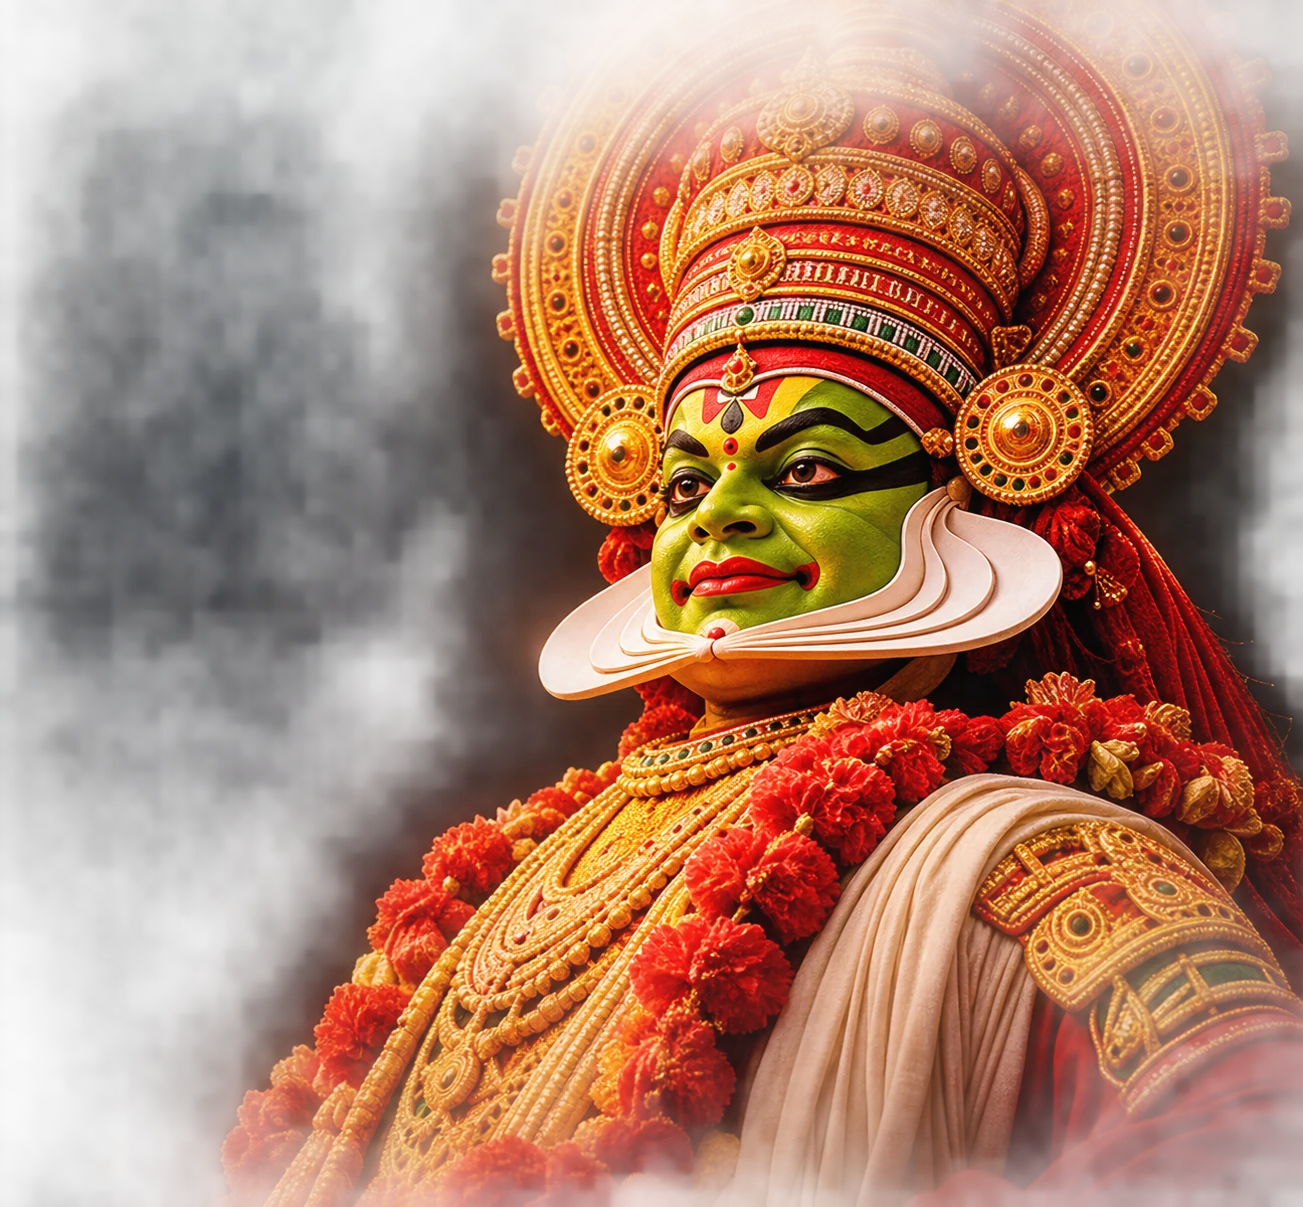
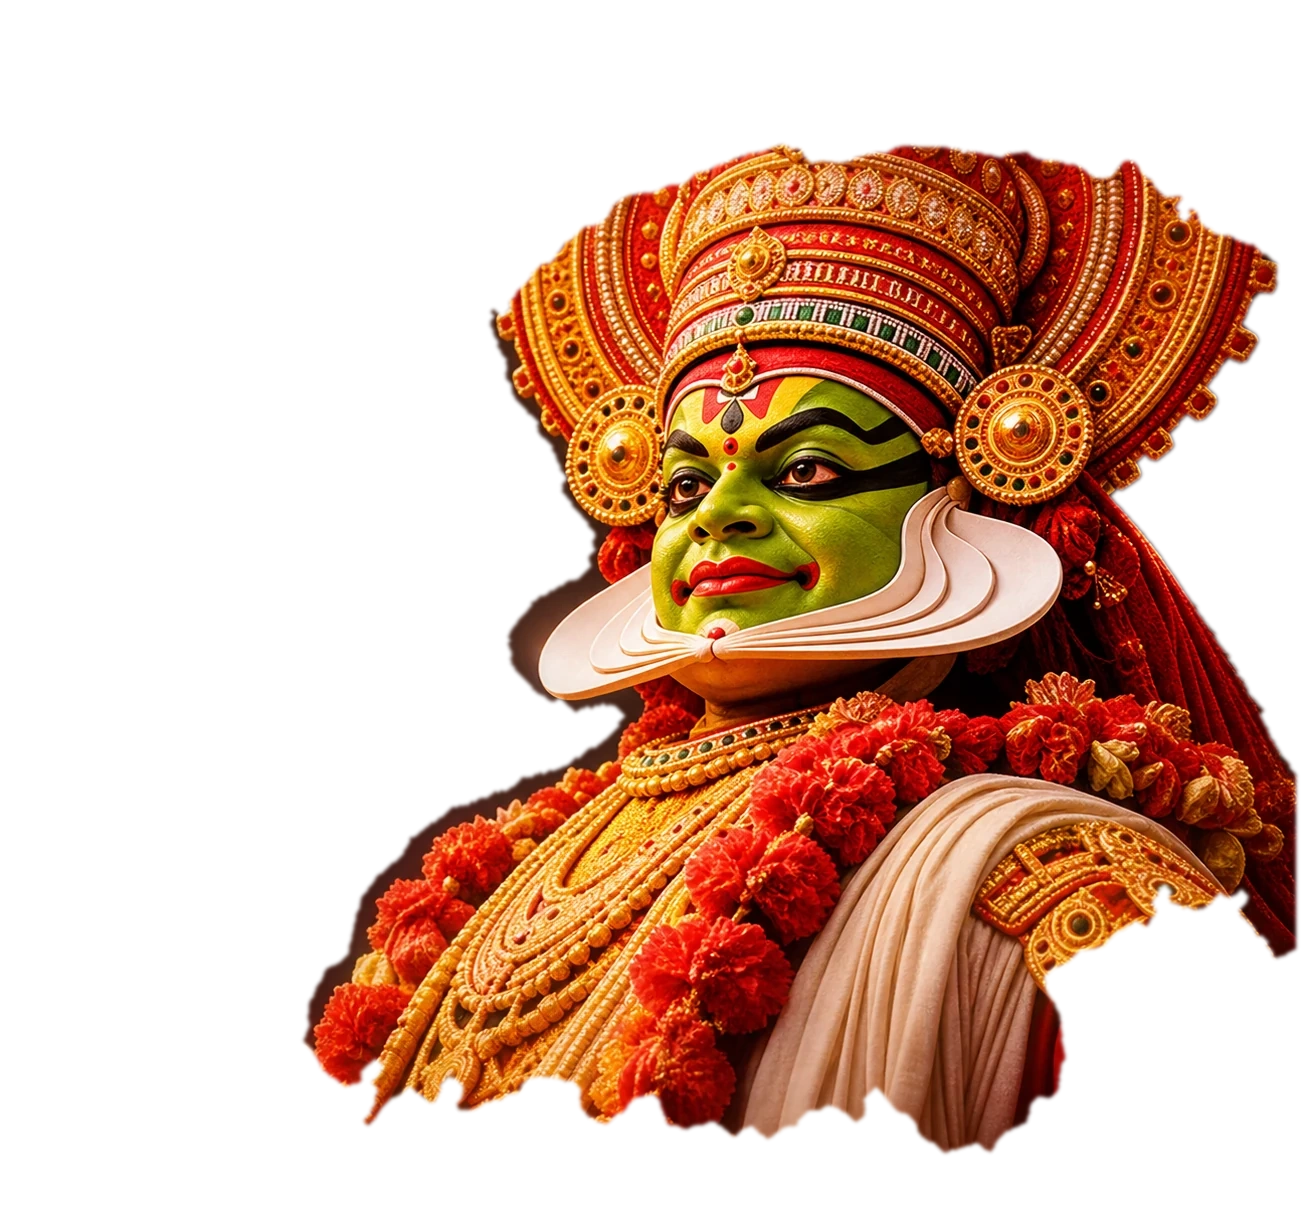
fix(hero): remove vintage square & crop line, eliminate clinky scroll and motion jitter

diff --git a/src/app/hero-kerala.css b/src/app/hero-kerala.css
@@ -7,7 +7,7 @@
 .hero.lt-hero.mh {
   --mx: 0;
   --my: 0;
-  --sy: 0;
+  --ksy: 0;
   --cgx: 60%;
   --cgy: 75%;
   position: relative;
@@ -44,7 +44,7 @@
     url(/mudra/depth-sky.webp) 50% 50%/cover no-repeat,
     radial-gradient(circle at 50% 38%, #fff6d0 0 .6%, #ffb347 1.4%, rgba(255, 120, 30, .55) 7%, transparent 28%),
     linear-gradient(180deg, #071a22 0, #0b2a33 28%, #6a3a1c 38%, #0a2a30 44%, #082127 70%, #051519 100%);
-  transform: translate3d(calc(var(--mx) * -12px), calc(var(--my) * -8px + var(--sy) * .12px), 0) scale(1.04);
+  transform: translate3d(calc(var(--mx) * -12px), calc(var(--my) * -8px + var(--ksy, 0) * .12px), 0) scale(1.04);
   animation: none !important;
 }
 
@@ -102,14 +102,14 @@
 /* 2 · Kathakali plate */
 .hero.lt-hero.mh .l-fig {
   position: absolute;
-  left: 63%;
+  left: 62%;
   top: -8%;
   width: 44%;
   z-index: 4;
   height: auto;
-  filter: drop-shadow(-18px 20px 32px rgba(0, 0, 0, .52)) saturate(1.12);
-  transform: translate3d(calc(var(--mx) * -38px), calc(var(--my) * -22px + var(--sy) * -.12px), 0) rotateY(calc(var(--mx) * -4.5deg)) rotateX(calc(var(--my) * 3deg));
-  transition: transform 0.08s ease-out;
+  filter: drop-shadow(0 14px 28px rgba(0, 0, 0, .38)) saturate(1.1);
+  transform: translate3d(calc(var(--mx) * -34px), calc(var(--my) * -18px + var(--ksy, 0) * -.08px), 0) rotateY(calc(var(--mx) * -3.8deg)) rotateX(calc(var(--my) * 2.2deg));
+  transition: none !important;
   will-change: transform;
   pointer-events: none;
   animation: none !important;
@@ -135,7 +135,7 @@
 }
 
 .hero.lt-hero.mh .fg-mid {
-  transform: translate3d(calc(var(--mx) * -26px), calc(var(--my) * -10px + var(--sy) * -.14px), 0) scale(1.02);
+  transform: translate3d(calc(var(--mx) * -26px), calc(var(--my) * -10px + var(--ksy, 0) * -.12px), 0) scale(1.02);
   -webkit-mask-image: linear-gradient(90deg, transparent 12%, #000 20%, #000 80%, transparent 88%), linear-gradient(180deg, transparent 40%, #000 52%);
   mask-image: linear-gradient(90deg, transparent 12%, #000 20%, #000 80%, transparent 88%), linear-gradient(180deg, transparent 40%, #000 52%);
   -webkit-mask-composite: source-in;
@@ -144,7 +144,7 @@
 
 .hero.lt-hero.mh .fg-left {
   z-index: 7;
-  transform: translate3d(calc(var(--mx) * -48px), calc(var(--my) * -18px + var(--sy) * -.2px), 0) scale(1.04);
+  transform: translate3d(calc(var(--mx) * -48px), calc(var(--my) * -18px + var(--ksy, 0) * -.16px), 0) scale(1.04);
   transform-origin: 0 100%;
   -webkit-mask-image: linear-gradient(90deg, #000 12%, transparent 20%);
   mask-image: linear-gradient(90deg, #000 12%, transparent 20%);
@@ -152,7 +152,7 @@
 
 .hero.lt-hero.mh .fg-right {
   z-index: 7;
-  transform: translate3d(calc(var(--mx) * -48px), calc(var(--my) * -18px + var(--sy) * -.2px), 0) scale(1.04);
+  transform: translate3d(calc(var(--mx) * -48px), calc(var(--my) * -18px + var(--ksy, 0) * -.16px), 0) scale(1.04);
   transform-origin: 100% 100%;
   -webkit-mask-image: linear-gradient(270deg, #000 12%, transparent 20%), linear-gradient(180deg, transparent 52%, #000 62%);
   mask-image: linear-gradient(270deg, #000 12%, transparent 20%), linear-gradient(180deg, transparent 52%, #000 62%);

diff --git a/src/components/Motion.tsx b/src/components/Motion.tsx
@@ -69,8 +69,8 @@ export function Motion() {
         t.style.setProperty('--gx', `${((px + 0.5) * 100).toFixed(1)}%`); t.style.setProperty('--gy', `${((py + 0.5) * 100).toFixed(1)}%`);
         current = t;
       }
-      // depth surfaces: the home light hero and every inner-page header
-      document.querySelectorAll<HTMLElement>('.hero:not(.mx-hero), .sheet-head.has-depth').forEach((h) => {
+      // depth surfaces: legacy light hero and inner-page headers (redesigned .mx-hero and .mh are independently controlled)
+      document.querySelectorAll<HTMLElement>('.hero:not(.mx-hero):not(.mh), .sheet-head.has-depth').forEach((h) => {
         const hr = h.getBoundingClientRect();
         const rowIn = e.clientY >= hr.top && e.clientY <= hr.bottom;
         const inside = rowIn && e.clientX >= hr.left && e.clientX <= hr.right;
@@ -109,7 +109,7 @@ export function Motion() {
     const onMove = (e: PointerEvent) => { if (e.pointerType !== 'mouse') return; last = e; if (!raf) raf = requestAnimationFrame(frame); };
     const onLeave = () => {
       reset(current); current = null;
-      document.querySelectorAll<HTMLElement>('.hero:not(.mx-hero), .sheet-head.has-depth').forEach((h) => { h.classList.remove('is-over'); h.style.setProperty('--lamp', '0'); });
+      document.querySelectorAll<HTMLElement>('.hero:not(.mx-hero):not(.mh), .sheet-head.has-depth').forEach((h) => { h.classList.remove('is-over'); h.style.setProperty('--lamp', '0'); });
       document.querySelectorAll<HTMLElement>('[data-magnetic]').forEach((b) => { b.classList.remove('mag-on'); b.style.removeProperty('--tx'); b.style.removeProperty('--ty'); });
     };
     document.addEventListener('pointermove', onMove, { passive: true });
@@ -123,7 +123,7 @@ export function Motion() {
         sraf = 0;
         const max = document.documentElement.scrollHeight - window.innerHeight;
         root.style.setProperty('--scroll', max > 0 ? Math.min(1, window.scrollY / max).toFixed(4) : '0');
-        document.querySelector<HTMLElement>('.hero:not(.mx-hero)')?.style.setProperty('--sy', String(Math.min(window.scrollY, 900)));
+        document.querySelector<HTMLElement>('.hero:not(.mx-hero):not(.mh)')?.style.setProperty('--sy', String(Math.min(window.scrollY, 900)));
       });
     };
     window.addEventListener('scroll', onScroll, { passive: true });

diff --git a/src/components/HeroKerala.tsx b/src/components/HeroKerala.tsx
@@ -29,8 +29,8 @@ export function HeroKerala() {
     let my = 0;
     let tx = 0;
     let ty = 0;
-    let sy = 0;
-    let ts = 0;
+    let ksy = 0;
+    let tks = 0;
     let gx = 60;
     let gy = 75;
     let tgx = 60;
@@ -66,7 +66,7 @@ export function HeroKerala() {
     };
 
     const onScroll = () => {
-      ts = Math.min(window.scrollY, 900);
+      tks = Math.min(window.scrollY, 900);
     };
 
     window.addEventListener('pointermove', onPointerMove, { passive: true });
@@ -114,18 +114,18 @@ export function HeroKerala() {
         return;
       }
       const idle = t - last > 1800;
-      const a = idle ? Math.sin(t / 2200) * 0.5 : tx;
-      const b = idle ? Math.cos(t / 2800) * 0.38 : ty;
+      const a = idle ? Math.sin(t / 2200) * 0.45 : tx;
+      const b = idle ? Math.cos(t / 2800) * 0.32 : ty;
 
       mx += (a - mx) * 0.08;
       my += (b - my) * 0.08;
-      sy += (ts - sy) * 0.1;
+      ksy += (tks - ksy) * 0.18;
       gx += (tgx - gx) * 0.1;
       gy += (tgy - gy) * 0.1;
 
       hero.style.setProperty('--mx', mx.toFixed(3));
       hero.style.setProperty('--my', my.toFixed(3));
-      hero.style.setProperty('--sy', sy.toFixed(1));
+      hero.style.setProperty('--ksy', ksy.toFixed(1));
       hero.style.setProperty('--cgx', `${gx.toFixed(1)}%`);
       hero.style.setProperty('--cgy', `${gy.toFixed(1)}%`);
 
